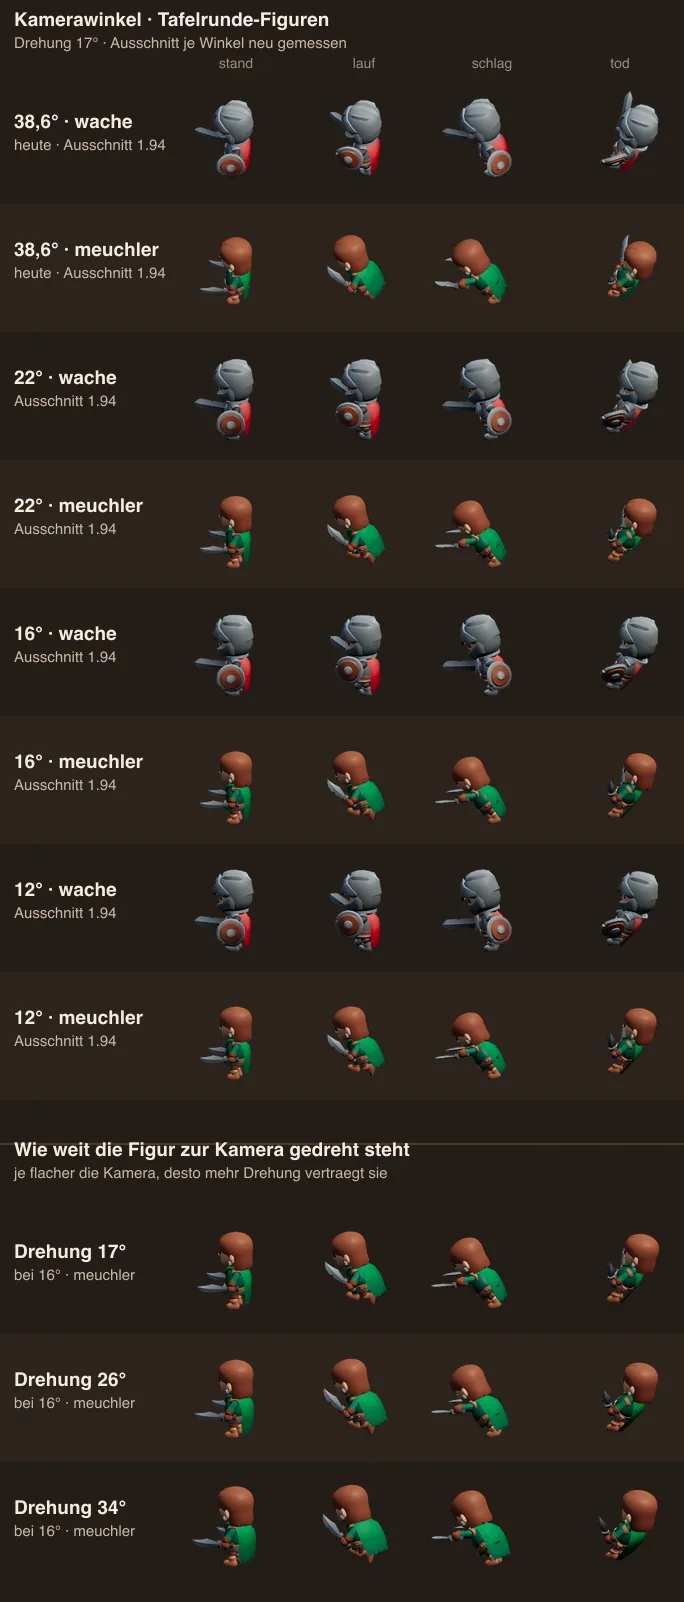
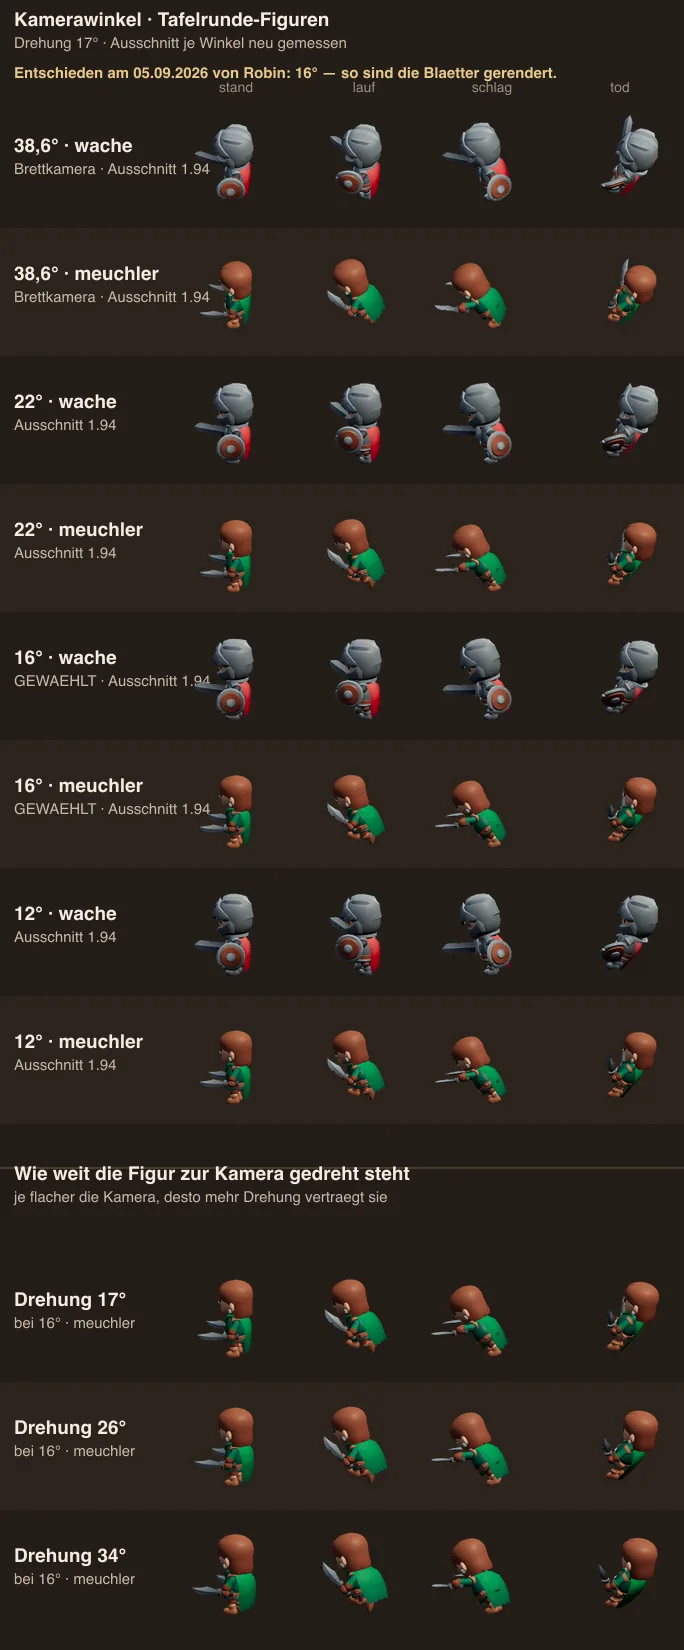
Tafelrunde 3D: Bildfolgen mit 16 Grad Kamerawinkel neu rendern
Robins Entscheidung vom 05.09.2026. Alle fuenf Blaetter unter
public/tafelrunde/figuren3d/ sind ersetzt: KAMERA_GRAD steht auf 16 statt auf
den 38,6 der Arena-Probe, mit denen man den Scheitel sah und kein Gesicht.

  wache     40,4 kB    schuetze  36,0 kB    beistand  38,8 kB
  meuchler  39,3 kB    magier    49,3 kB    zusammen 203,8 kB

Das sind 98 kB WENIGER als die 302 kB des ersten Satzes, obwohl der Ausschnitt
gewachsen ist: Der flachere Blick laesst mehr leere Zelle stehen, und leere
Zelle ist im WebP fast umsonst.

DREHUNG bleibt bei 17 Grad, der Ausschnitt wird weiter gemessen statt geraten.
Er liegt jetzt bei 2,12 und nicht bei den 1,94 aus dem Vergleich: Der Vergleich
hat nur Wache und Meuchler vermessen, der Auslieferungslauf alle fuenf, und der
Stab des Magiers greift weiter als alles andere. Damit verschiebt sich der
Fusspunkt auf y 0,7729 (vorher 0,7474) - in figuren3d.ts nachgetragen.

Zum Vorzeichen der Drehung steht jetzt im Kommentar, WORAN man merkt, dass es
gekippt ist: Die Figur zeigt den Hinterkopf, kein Auge und kein Ohr auf der
Kameraseite, Umhang vorn, Waffe hinter dem Koerper. Und dass es bei steiler
Kamera nicht auffaellt - der Scheitel sieht von vorn aus wie von hinten. Genau
so ist der Fehler durch einen ganzen Satz Blaetter gelaufen.

docs/bilder/tafelrunde-kamerawinkel.webp bleibt als Beleg im Zweig und traegt
den Entscheidungssatz jetzt im Bild selbst.

diff --git a/packages/client/src/figuren3d/figuren3d.ts b/packages/client/src/figuren3d/figuren3d.ts
@@ -7,19 +7,16 @@
  * Bildzahl, Rasterweite oder Ausschnitt dreht, aendert die Zahlen hier mit —
  * das Skript gibt sie am Ende seines Laufs aus.
  *
- * ACHTUNG, DIE BILDER SIND NOCH NICHT DIE ENDGUELTIGEN. Sie sind mit der
- * Kamera der 3D-Probe gerendert (38,6 Grad ueber der Waagerechten, eine Kamera
- * fuer ein BRETT): Man sieht den Scheitel und kein Gesicht, beim Meuchler fast
- * nie. Drei flachere Winkel stehen zur Wahl und liegen als Vergleichsbild unter
- * `docs/bilder/tafelrunde-kamerawinkel.webp`; sobald einer entschieden ist,
- * laeuft `bildfolgen-rendern.mjs` noch einmal, und die Zahlen unten
- * (FIGUREN3D_FUSSPUNKT vor allem) aendern sich mit. Wer bis dahin gegen diese
- * Datei baut, baut richtig — nur die Bilder darin werden noch getauscht.
+ * DIE KAMERA STEHT AUF 16 GRAD ueber der Waagerechten — entschieden von Robin
+ * am 05.09.2026, belegt am Vergleichsbild `docs/bilder/tafelrunde-kamerawinkel.webp`.
+ * Der erste Satz Blaetter war mit 38,6 Grad gerendert, der Kamera der 3D-Probe,
+ * die auf ein BRETT schaut: Man sah den Scheitel und kein Gesicht. Wer den
+ * Winkel wieder anfasst, aendert die Zahlen hier mit.
  *
  * WOZU DAS GANZE: Die Figuren sollen wie 3D aussehen, aber nicht live gerendert
  * werden. Die Probe mit Three.js (`proben/arena-3d/`) lief auf dem Handy mit 20
  * Bildern je Sekunde und lud 1,6 MB fuer fuenf Rollen. Vorgerendert sind es
- * 302 kB, und das Abspielen kostet so viel wie ein `background-position`.
+ * 204 kB, und das Abspielen kostet so viel wie ein `background-position`.
  *
  * LIZENZ ALLER FUENF BLAETTER: KayKit "Character Pack : Adventurers" 1.0 von
  * Kay Lousberg (kaylousberg.com), CC0 1.0 Universal — freie Verwendung auch
@@ -73,12 +70,13 @@ export const FIGUREN3D_ZEILEN = 5;
 /**
  * Wo die Figur in ihrer Zelle auf dem Boden aufsetzt, als Anteil der Kante.
  *
- * NICHT die Zellmitte: Die Kamera schaut schraeg von oben, und der Ausschnitt
- * steht hoeher als die Figur, damit Hut und Waffe hineinpassen. Wer die Zelle
- * mittig auf ein Feld setzt, stellt die Figur ein Stueck zu hoch — bei 128
- * Pixeln sind das gut 30. Ausgerechnet aus der Kamera, nicht im Bild gemessen.
+ * NICHT die Zellmitte: Der Ausschnitt umfasst ALLE Bewegungen, auch den weit
+ * ausgeholten Schlag und das Zusammensacken, und liegt deshalb hoeher als die
+ * stehende Figur. Wer die Zelle mittig auf ein Feld setzt, stellt die Figur ein
+ * Stueck zu hoch — bei 128 Pixeln sind das gut 35. Ausgerechnet aus der Kamera,
+ * nicht im Bild gemessen.
  */
-export const FIGUREN3D_FUSSPUNKT = { x: 0.5, y: 0.7474 } as const;
+export const FIGUREN3D_FUSSPUNKT = { x: 0.5, y: 0.7729 } as const;
 
 /**
  * Alle Figuren schauen nach RECHTS.
@@ -87,6 +85,9 @@ export const FIGUREN3D_FUSSPUNKT = { x: 0.5, y: 0.7474 } as const;
  * Kamera gedreht). Die andere Seite entsteht durch Spiegeln — `transform:
  * scaleX(-1)`. Deshalb darf in die Bilder nichts hinein, das seitenrichtig
  * sein muss: keine Schrift, keine Zahl, kein Wappen.
+ *
+ * Zeigt eine Figur den Hinterkopf statt des Gesichts, ist im Renderskript das
+ * Vorzeichen der Drehung gekippt — nicht dieses Spiegeln.
  */
 export const FIGUREN3D_BLICKT = 'rechts' as const;
 
